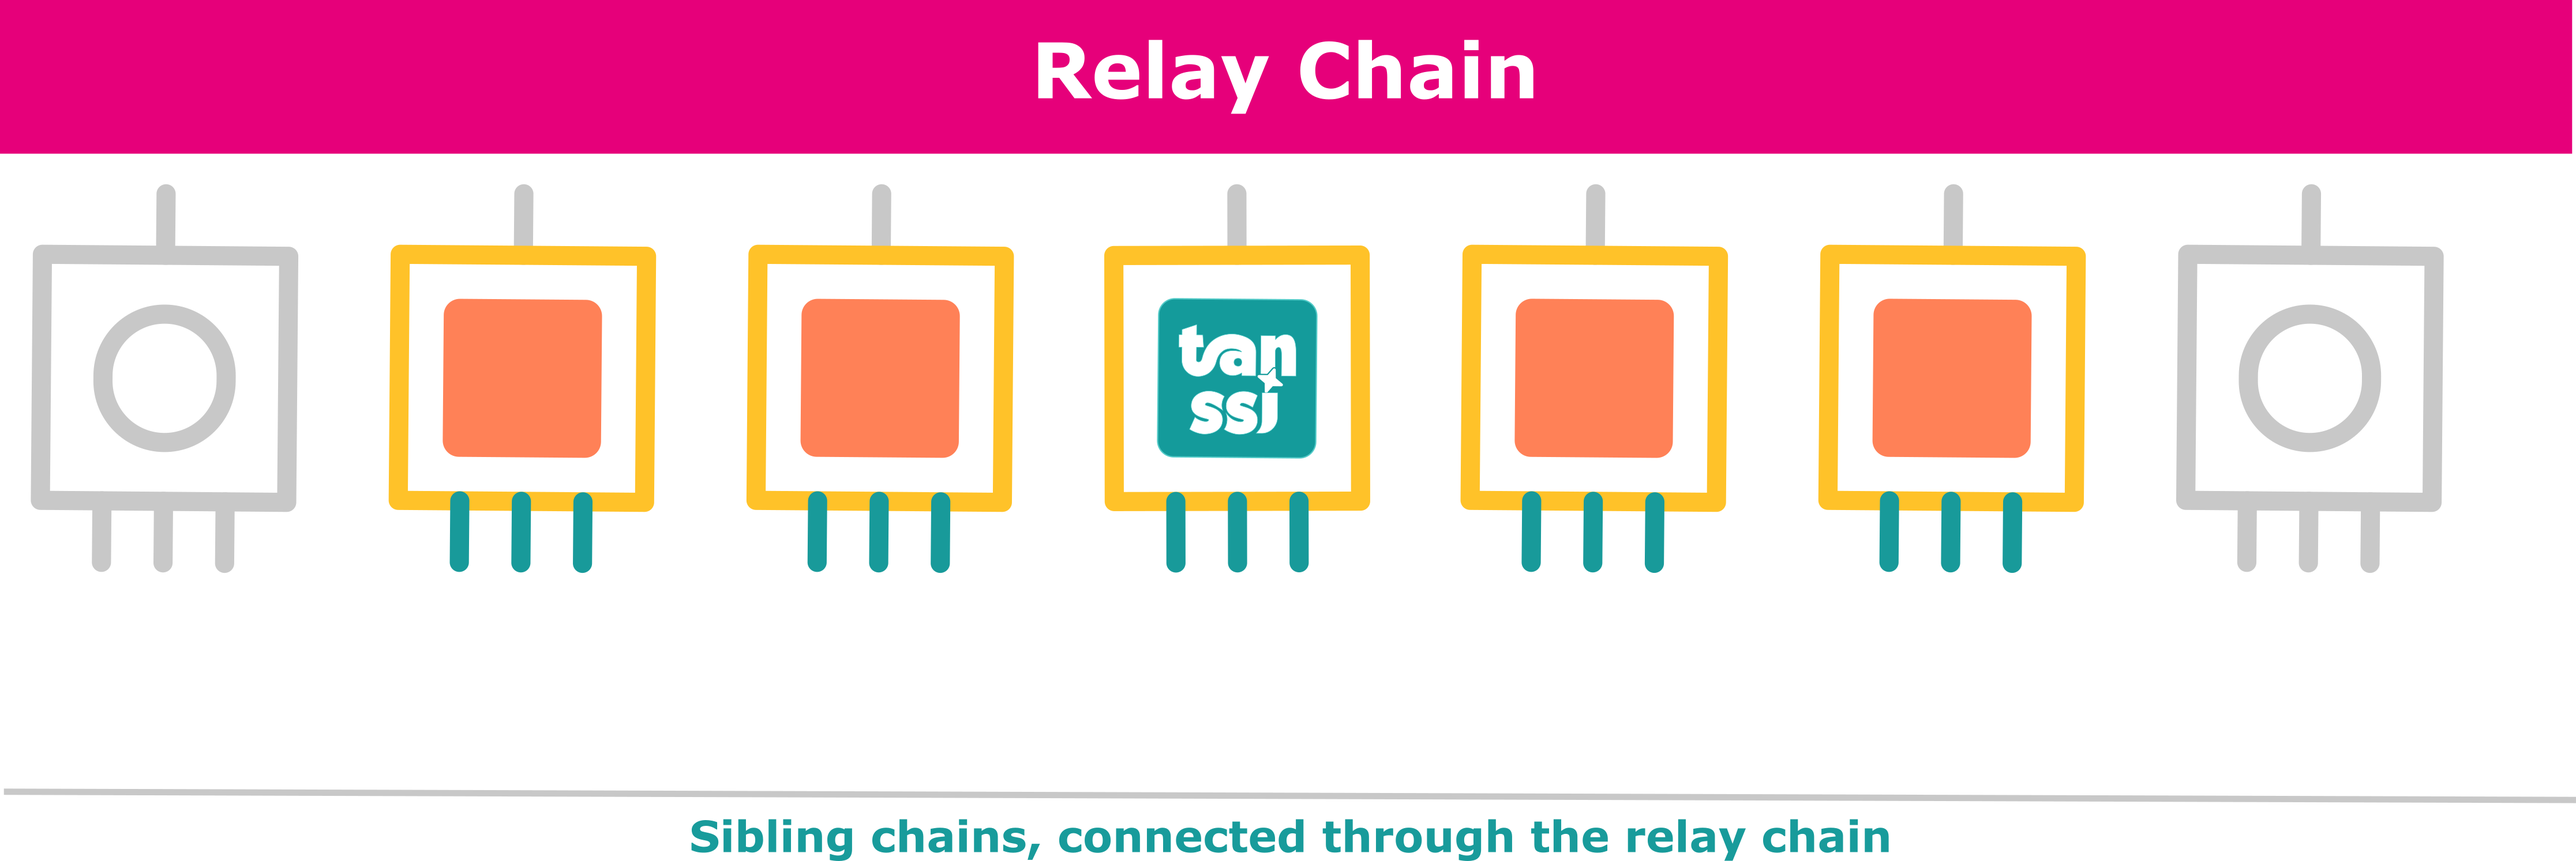
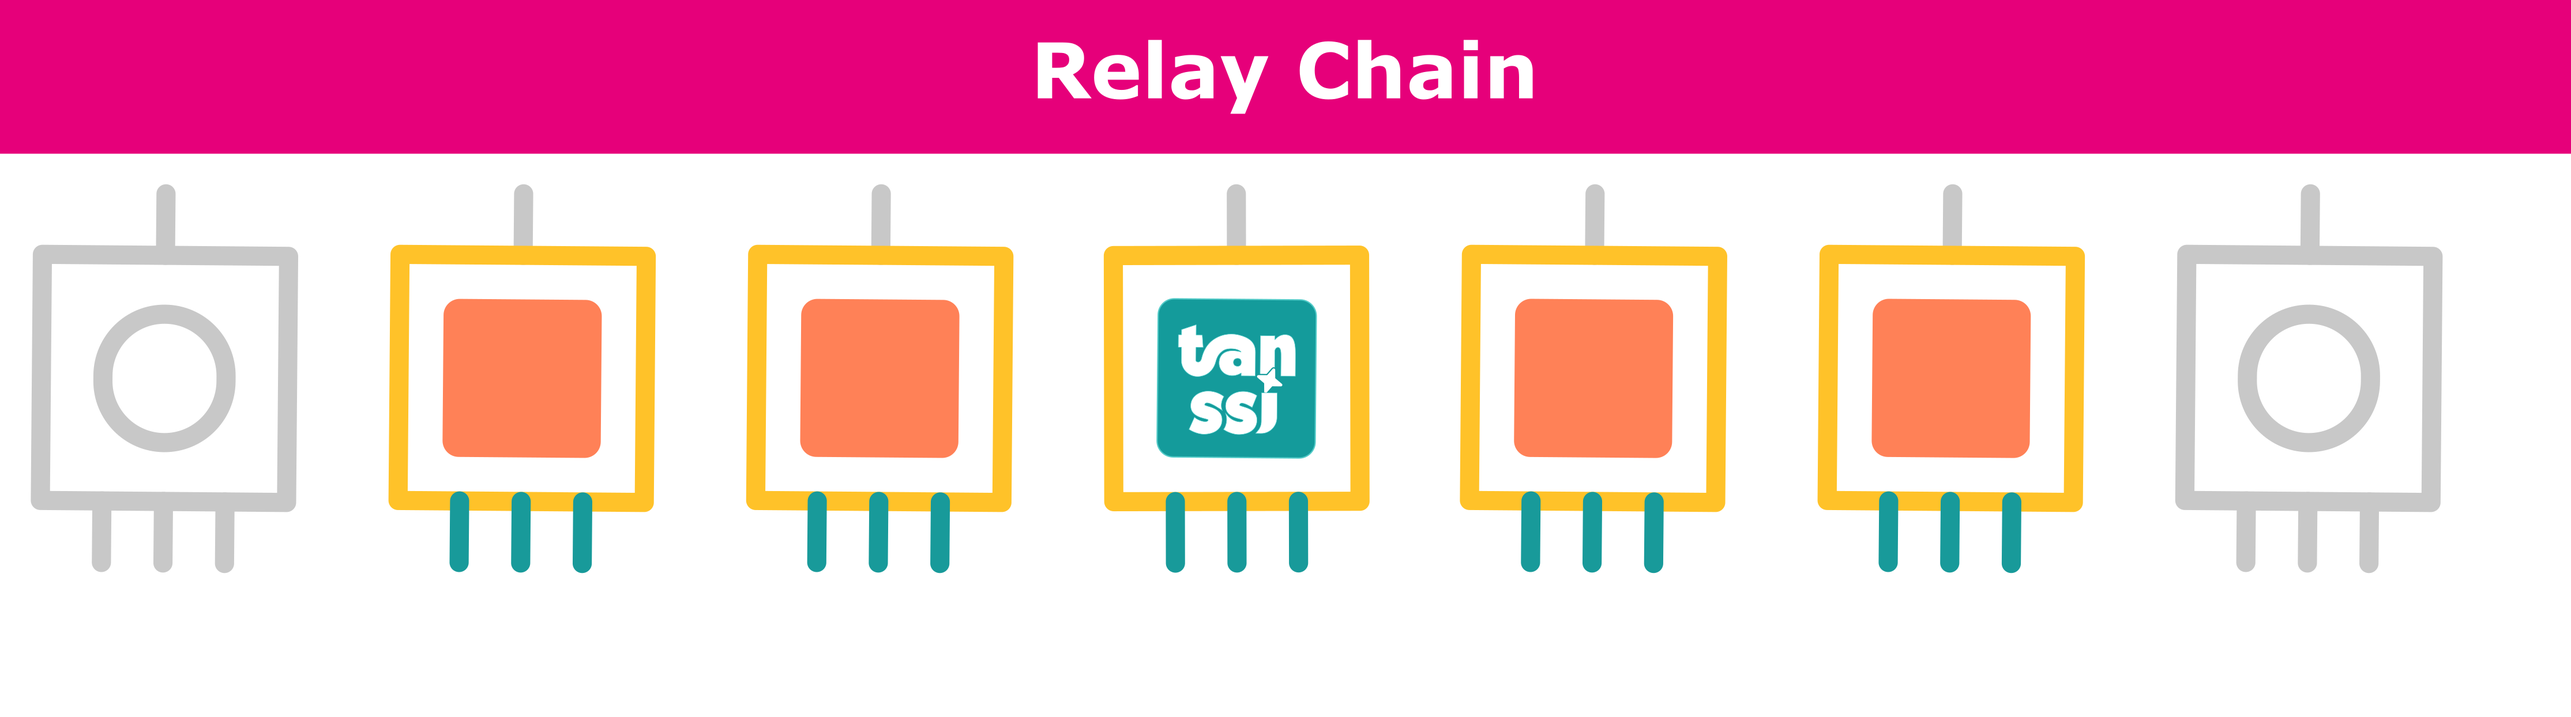
diagram & text rearrange

Changed region(s): [[0.0, 0.0, 1.0, 0.7942], [0.0, 0.9164, 1.0, 1.0], [0.6548, 0.4887, 0.686, 0.5193]]

diff --git a/learn/tanssi/technical.md b/learn/tanssi/technical.md
@@ -13,41 +13,40 @@ Infrastructure poses a huge challenge for developers who would need to bootstrap
 
 In Tanssi terms, Appchains are called ContainerChains, similar to the concept coined in [Docker](https://www.docker.com){target=_blank}, allowing teams to focus on the product while alleviating deployment-related issues. In this analogy, the Tanssi network resembles [Kubernetes](https://kubernetes.io){target=_blank}, in its role as orchestrator, managing resources to guarantee the liveness and performance of the ContainerChains.
 
-In this article, we discuss the following technical aspects of the Tanssi protocol:
+In this article, we discuss how to build and deploy your own Modular Blockchain and the following technical aspects of the Tanssi protocol:
 
 - **Block production as a service**
 - **Consensus on demand**
 
 ## Block Production as a Service {: #block-production-as-a-service } 
 
+Polkadot is a heterogeneous multi-chain ecosystem, where multiple parallel blockchains connect to a central blockchain called the relay chain. To provide block production as a service, the Tanssi protocol masterfully orchestrates and designs the interaction between the Tanssi network, the ContainerChains, and Polkadot's relay chain.
 
-## Collator Assignment {: #collators-assignment } 
+In the Polkadot ecosystem, the Appchains connected to the relay chain are fully sovereign blockchains, having their own rules, consensus mechanisms, and so forth, and this is the case for the Tanssi network and the Appchains deployed through Tanssi as well. 
+
+The Tanssi network and the ContainerChains can be considered sibling chains, meaning that there is no hierarchical dependency whatsoever. Their responsibility and how they interact with each other through the relay chain will be covered in the following sections.
+
+![Sibling Chains](/images/learn/tanssi/technical/light-technical-2.png#only-light)
+![Sibling Chains](/images/learn/tanssi/technical/dark-technical-2.png#only-dark)
+
+### Collator Assignment {: #collators-assignment } 
 
 The Tanssi protocol manages a set of collators and assigns them to provide block production services to the active ContainerChains and the Tanssi network itself.
 
-The assignment algorithm will start distributing the available collators, serving first the Tanssi network and then the ContainerChains, ordered by the registration date, on a first-come, first-served basis. Once the assignment is made, it will be upheld for at least one session, which represents a period that has a constant set of collators.
+The assignment algorithm will start distributing the available collators, serving first the Tanssi network and then the ContainerChains, ordered by the registration date, on a first-come, first-served basis. Once the assignment is made, it will be upheld for at least one session, which represents a period measured in blocks that has a constant set of collators. In the provided [templates](/learn/tanssi/templates), the default session duration is set to 1800 blocks, which translates to (roughly) six hours.
 
-Every new assignment works intentionally with a one-session delay, so collators may know in advance if they are assigned to serve the Tanssi network or one of the ContainerChains.
+Every new assignment works intentionally with a one-session delay, so collators may know in advance if they are assigned to serve the Tanssi network or which one of the ContainerChains.
 
 When a new session starts, the Tanssi protocol will put into effect the queued assignment. It will also calculate the new assignment, considering changes in ContainerChains that might have been activated or deactivated and collators that might have been added or removed from the pool. This new assignment will be queued for the next session.
+
+![Sessions](/images/learn/tanssi/technical/technical-6.png)
 
 The following picture shows an example of how the algorithm works by distributing ten available collators, with a minimum threshold of three collators for the Tanssi network and two collators for each of the ContainerChains.
 
 ![Collators Assignment Algorithm](/images/learn/tanssi/technical/light-technical-1.png#only-light)
 ![Collators Assignment Algorithm](/images/learn/tanssi/technical/dark-technical-1.png#only-dark)
 
-## Block Production {: #block-production } 
-
-Polkadot is a heterogeneous multi-chain ecosystem, where multiple parallel blockchains connect to a central blockchain called the relay chain. To provide block production as a service, the Tanssi protocol masterfully orchestrates and designs the interaction between the Tanssi network, the ContainerChains, and Polkadot's relay chain.
-
-In the Polkadot ecosystem, the Appchains connected to the relay chain are fully sovereign blockchains, having their own rules, consensus mechanisms, and so forth, and this is the case for the Tanssi network and the Appchains deployed through Tanssi as well. 
-
-The Tanssi network and the ContainerChains can be considered as sibling chains, meaning that there is no hierarchical dependency whatsoever. Their responsibility and how they interact with each other through the relay chain will be covered in the following sections.
-
-![Sibling Chains](/images/learn/tanssi/technical/light-technical-2.png#only-light)
-![Sibling Chains](/images/learn/tanssi/technical/dark-technical-2.png#only-dark)
-
-### Relay Chain {: #relay-chain } 
+### The Role of the Relay Chain {: #relay-chain } 
 
 Among many other responsibilities, the relay chain validates and finalizes the blocks produced by any chain participating in the ecosystem (including the ContainerChains and the Tanssi network), storing the most recent headers for each block of each chain.
 
@@ -55,7 +54,7 @@ The Tanssi protocol leverages this feature, relying on the relay chain as a mean
 
 ![Relay chain](/images/learn/tanssi/technical/technical-3.png)
 
-### Tanssi Network {: #tanssi-newtwork } 
+### The Role of the Tanssi Network {: #tanssi-newtwork } 
 
 As previously discussed, the Tanssi protocol assigns collators to the Tanssi network itself and the ContainerChains, and the result of this assignment is stored within the chain state.
 
@@ -63,7 +62,7 @@ Another important piece of information that Tanssi stores is the latest header f
 
 ![Tanssi Network](/images/learn/tanssi/technical/technical-4.png)
 
-### ContainerChain {: #containerchain } 
+### The Role of the ContainerChain {: #containerchain } 
 
 As a collator node assigned to a ContainerChain deployed in Tanssi has built-in Tanssi node functionality, it is technically feasible to read the state from the Tanssi network and the blocks from the relay chain.
 
@@ -73,7 +72,7 @@ Once the block is completed with the ContainerChain transactions, it will be pro
 
 ![ContainerChain collation](/images/learn/tanssi/technical/technical-5.png)
 
-## Implementing the Tanssi Protocol in your ContainerChain {: #implementing-tanssi-in-your-containerchain }
+## Building a Modular ContainerChain Supporting Tanssi Protocol {: #implementing-tanssi-in-your-containerchain }
 
 To make your Appchain Tanssi compliant and ready to become a deployed ContainerChain, adding references to the following two pallets is required:
 
